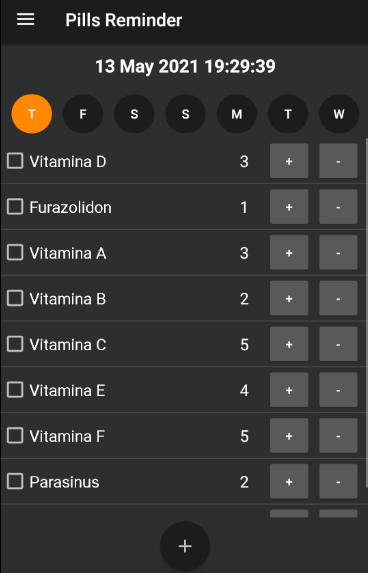
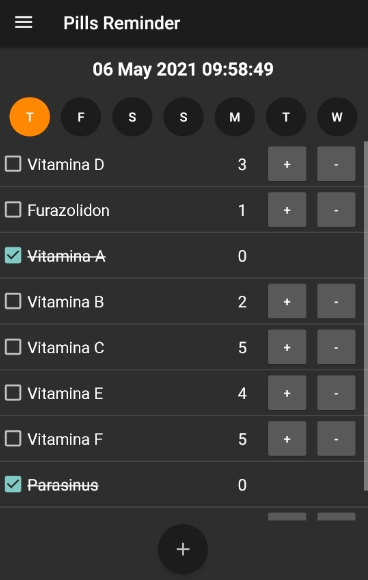
README modifications

diff --git a/README.md b/README.md
@@ -13,7 +13,7 @@ or an activity intent for maps and settings.
 It has the option to change currently displayed pills by pressing one of the day buttons which are <br/>
 ordered according to the current day. This is done trough a Constraint Layout.</br>
 Only current day the pill quantity of the current day pills can be modified and once it hits 0 </br>
-the checkbox gets checked and the pill name gets cut through.
+the checkbox gets checked and the pill name gets cut through.<br/>
 ![Pill Reminder Fragment](/README_resources/PillsReminder.png)<br/>
 ![Pill Reminder Modifier](/README_resources/PillsReminderModify.png)<br/>
 
